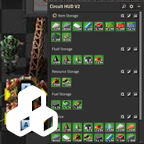
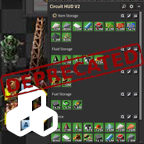
refactor: migrate to khaoscircuitry

Changed region(s): [[0.0, 0.2778, 1.0, 0.6944]]

diff --git a/README.md b/README.md
@@ -1,7 +1,6 @@
-[![Factorio Mod Portal page](https://img.shields.io/badge/dynamic/json?color=orange&label=Factorio&query=downloads_count&suffix=%20downloads&url=https%3A%2F%2Fmods.factorio.com%2Fapi%2Fmods%2FCircuitHUD-V2-Tweaks&style=for-the-badge)](https://mods.factorio.com/mod/CircuitHUD-V2-Tweaks) [![](https://img.shields.io/github/issues/QuingKhaos/CircuitHUD-V2-Tweaks/bug?label=Bug%20Reports&style=for-the-badge)](https://github.com/QuingKhaos/CircuitHUD-V2-Tweaks/issues?q=is%3Aissue%20state%3Aopen%20label%3Abug) [![](https://img.shields.io/github/issues-pr/QuingKhaos/CircuitHUD-V2-Tweaks?label=Pull%20Requests&style=for-the-badge)](https://github.com/QuingKhaos/CircuitHUD-V2-Tweaks/pulls) [![Ko-fi](https://img.shields.io/badge/Ko--fi-support%20me-ff5e5b?logo=kofi&logoColor=white&style=for-the-badge)](https://ko-fi.com/quingkhaos)
+[![The Foundry](https://img.shields.io/badge/foundrygg-4a1402?style=for-the-badge&logo=vercel&logoColor=white)](https://foundrygg.com/)
+[![Discord community](https://img.shields.io/badge/Discord-%235865F2.svg?style=for-the-badge&logo=discord&logoColor=white)](https://discord.gg/SYmkaDjFCt)
 
-# Circuit HUD V2 Tweaks
+# [DEPRECATED] Circuit HUD V2 Tweaks
 
-Opinionated tweaks to [Circuit HUD V2](https://mods.factorio.com/mod/CircuitHUD-V2). For a full list of changes, take a look at the changelog.
-
-If you want to see some new tweaks, feel free to open a discussion thread on the mod portal or a GitHub issue. Eventually some non so opiniated tweaks will make it into the original mod.
+Functionality migrated to [QuingKhaos' Circuitry Tweaks](https://mods.factorio.com/mod/khaoscircuitry).
